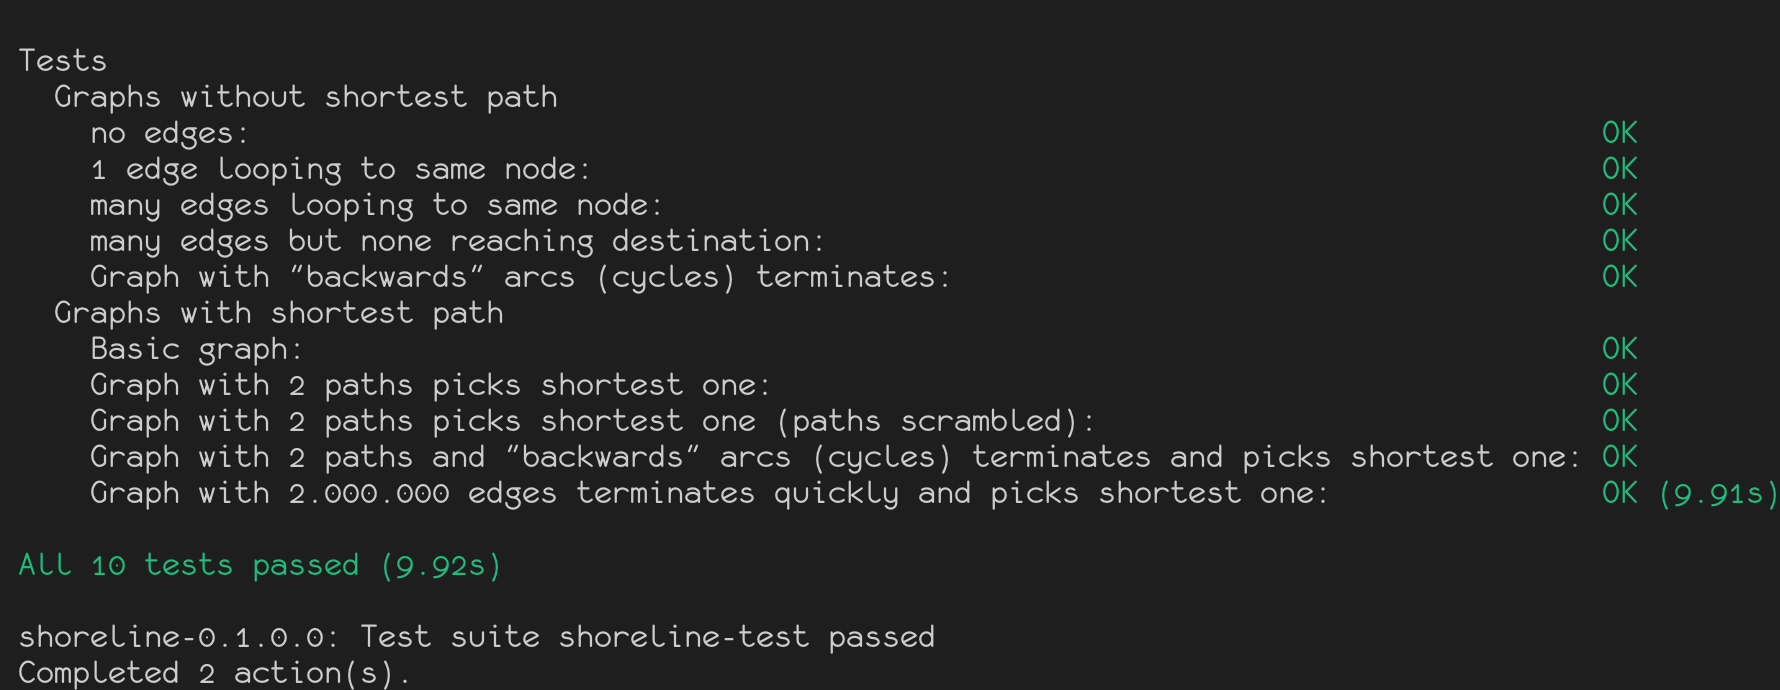
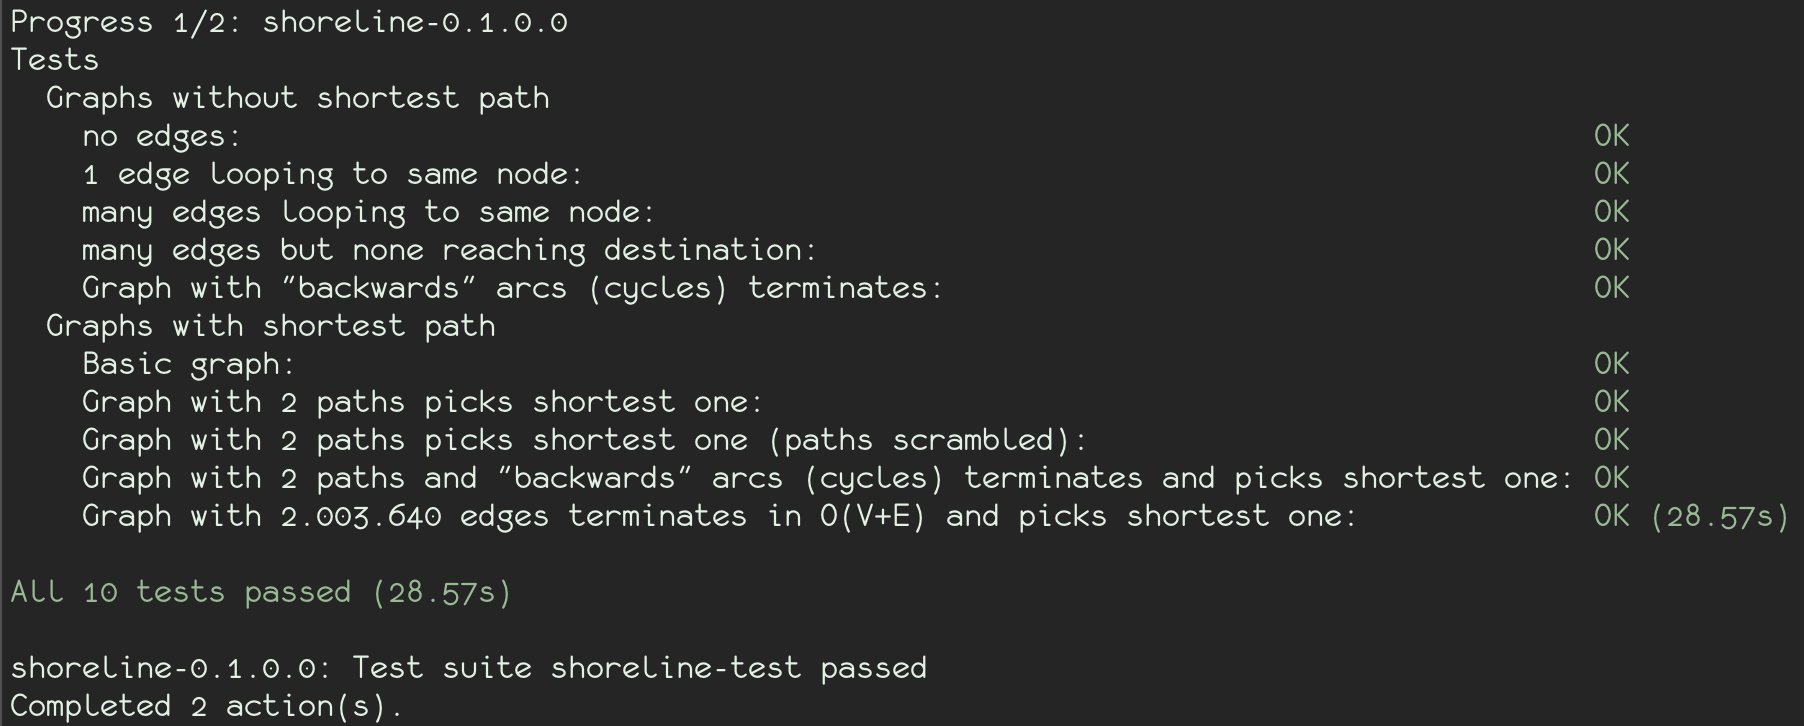
Improvements and documentation

diff --git a/README.md b/README.md
@@ -1,8 +1,7 @@
 # Shoreline
 This repository was motivated by a problem submitted on a job offer. Sections [Problem](#problem) and [Instructions](#instructions) describe company's expectation. Other ones explain the choices I made to implement it and my answers to the questions.
 
-![](graph.png)
-## <a name="problem">Problem</a>
+## <a name="problem"></a>Problem
 
 We are building a social network.  In this social network, each user has friends.
 
@@ -10,7 +9,7 @@ A chain of friends between two users, user A and user B, is a sequence of users 
 
 Given a social network and two users, user A and user B, please write a function that computes the length of the shortest chain of friends between A and B.
 
-## <a name="instructions">Instructions</a>
+## <a name="instructions"></a>Instructions
 Please write answers to the following discussion questions and include them in your solution as comments:
 
 * How did you represent the social network?  Why did you choose this representation?
@@ -48,6 +47,48 @@ The function `esp :: Graph gr => Node -> Node -> gr a b -> Path` (edges shortest
 
 * Please enumerate the test cases you considered and explain their relevance.  
 
-Here they are: ![](tests.png)  
+Here they are:  
+<p align="center">
+  <img src="tests.png" alt="Tests" width="75%" height="75%">
+</p>
 
-Besides the obvious test whether the shortest path is found or not, it is important to test the algorithm against a **cyclic graph** to see if nodes are explored only once. The last test check the **time complexity** with a huge number of edges. 
+Besides the obvious test whether the shortest path is found or not, it is important to test the algorithm against a **cyclic graph** to see if nodes are explored only once. The last test check the **time complexity** with a huge number of edges.  
+It creates a graph of 1415 nodes with edges connecting each node against all nodes, including itself, resulting in 2.003.640 edges (1415<sup>2</sup> is 2.002.225 but each edge from a node to itself is also bidirectional from itself to node...).  
+
+Those indexes tests should also be implemented but they are not related to graphs:  
+
+```haskell
+let n     = 50  --nummber of nodes in the graph
+    start = 0   --start node
+    end   = n-1 --end node
+in (0 <= start && start <= n) && (0 <= end && end <= n)
+```
+
+## BFS algorithm
+### Behavior
+A good description of BFS behavior is in the figure below (taken from [www.hackerearth.com](https://www.hackerearth.com/fr/practice/notes/graph-theory-breadth-first-search/)).  
+Beware there is a small mistake in graph 4: the level 3 set should not draw an edge between nodes 9 and 5 but between nodes 7 and 5.
+<p align="center">
+  <img src="bfs.jpg" alt="Breadth First Search" width="50%" height="50%">
+</p>
+
+### Functional Graph Library implementation
+To build this graph
+
+<p align="center">
+  <img src="graph.png" alt="Graph" width="75%" height="75%">
+</p>
+
+with the edges on the left, `fgl` will generate the paths on the right
+<p align="center">
+  <img src="edges-paths.png" alt="Edges and Paths" width="75%" height="75%">
+</p>
+
+This graph is clearly undirected. Each pair of nodes linked has in fact 2 edges. For example "Layne Barcus" (line 1 on the left) has an edge with "Bong Reeves" (line 7 on the left) and vice versa.  
+
+The growing length of the paths reflects the behavior described above. It is confirmed if we look how each path is added. For example we start with the node "Kaci Sunde" (line 1 on the right). Lines 2 to 4 add paths to the 3 direct siblings of "Kaci Sunde". Lines 5 to 18 start anew with each of these 3 direct siblings. This traversal continues until there are no nodes.
+
+#### Code
+A hand made diagram to have a better understanding of [Functional Graph Library](http://hackage.haskell.org/package/fgl)' BFS implementation:
+
+<img src="bfs-fgl.png" alt="fgl implementation of BFS">
